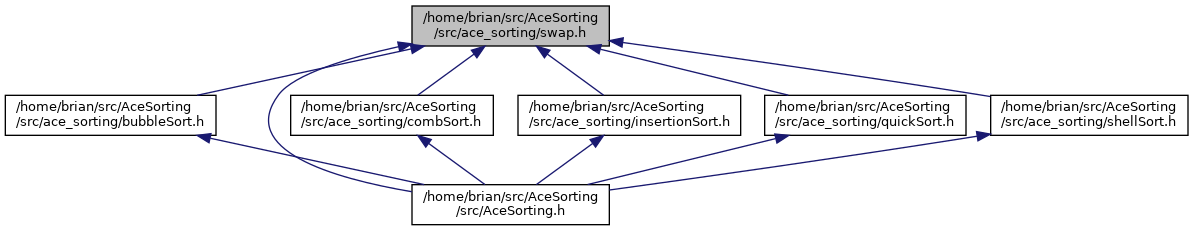
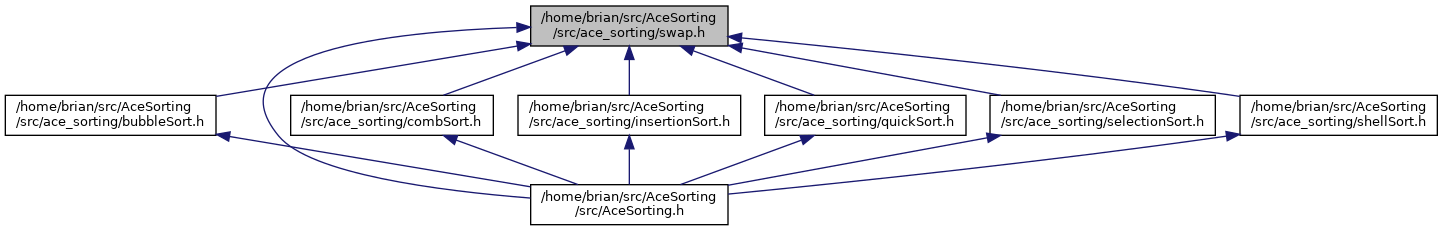
docs: Regenerate doxygen for v0.2

diff --git a/docs/html/selectionSort_8h_source.html b/docs/html/selectionSort_8h_source.html
@@ -5,7 +5,7 @@
 <meta http-equiv="X-UA-Compatible" content="IE=9"/>
 <meta name="generator" content="Doxygen 1.8.17"/>
 <meta name="viewport" content="width=device-width, initial-scale=1"/>
-<title>AceSorting: /home/brian/src/AceSorting/src/ace_sorting/swap.h Source File</title>
+<title>AceSorting: /home/brian/src/AceSorting/src/ace_sorting/selectionSort.h Source File</title>
 <link href="tabs.css" rel="stylesheet" type="text/css"/>
 <script type="text/javascript" src="jquery.js"></script>
 <script type="text/javascript" src="dynsections.js"></script>
@@ -68,10 +68,10 @@ $(function() {
 </div><!-- top -->
 <div class="header">
   <div class="headertitle">
-<div class="title">swap.h</div>  </div>
+<div class="title">selectionSort.h</div>  </div>
 </div><!--header-->
 <div class="contents">
-<a href="swap_8h.html">Go to the documentation of this file.</a><div class="fragment"><div class="line"><a name="l00001"></a><span class="lineno">    1</span>&#160;<span class="comment">/*</span></div>
+<a href="selectionSort_8h.html">Go to the documentation of this file.</a><div class="fragment"><div class="line"><a name="l00001"></a><span class="lineno">    1</span>&#160;<span class="comment">/*</span></div>
 <div class="line"><a name="l00002"></a><span class="lineno">    2</span>&#160;<span class="comment">MIT License</span></div>
 <div class="line"><a name="l00003"></a><span class="lineno">    3</span>&#160;<span class="comment"></span> </div>
 <div class="line"><a name="l00004"></a><span class="lineno">    4</span>&#160;<span class="comment">Copyright (c) 2021 Brian T. Park</span></div>
@@ -95,22 +95,51 @@ $(function() {
 <div class="line"><a name="l00022"></a><span class="lineno">   22</span>&#160;<span class="comment">SOFTWARE.</span></div>
 <div class="line"><a name="l00023"></a><span class="lineno">   23</span>&#160;<span class="comment">*/</span></div>
 <div class="line"><a name="l00024"></a><span class="lineno">   24</span>&#160; </div>
-<div class="line"><a name="l00031"></a><span class="lineno">   31</span>&#160;<span class="preprocessor">#ifndef ACE_SORTING_SWAP_H</span></div>
-<div class="line"><a name="l00032"></a><span class="lineno">   32</span>&#160;<span class="preprocessor">#define ACE_SORTING_SWAP_H</span></div>
+<div class="line"><a name="l00031"></a><span class="lineno">   31</span>&#160;<span class="preprocessor">#ifndef ACE_SORTING_SELECTION_SORT_H</span></div>
+<div class="line"><a name="l00032"></a><span class="lineno">   32</span>&#160;<span class="preprocessor">#define ACE_SORTING_SELECTION_SORT_H</span></div>
 <div class="line"><a name="l00033"></a><span class="lineno">   33</span>&#160; </div>
-<div class="line"><a name="l00034"></a><span class="lineno">   34</span>&#160;<span class="keyword">namespace </span>ace_sorting {</div>
+<div class="line"><a name="l00034"></a><span class="lineno">   34</span>&#160;<span class="preprocessor">#include &quot;<a class="code" href="swap_8h.html">swap.h</a>&quot;</span></div>
 <div class="line"><a name="l00035"></a><span class="lineno">   35</span>&#160; </div>
-<div class="line"><a name="l00040"></a><span class="lineno">   40</span>&#160;  <span class="keyword">template</span> &lt;<span class="keyword">typename</span> T&gt;</div>
-<div class="line"><a name="l00041"></a><span class="lineno"><a class="line" href="swap_8h.html#a14e0c07fb427a4bc51b26fa03ae19eb0">   41</a></span>&#160;  <span class="keywordtype">void</span> <a class="code" href="swap_8h.html#a14e0c07fb427a4bc51b26fa03ae19eb0">swap</a>(T&amp; a, T&amp; b) {</div>
-<div class="line"><a name="l00042"></a><span class="lineno">   42</span>&#160;    T temp = a;</div>
-<div class="line"><a name="l00043"></a><span class="lineno">   43</span>&#160;    a = b;</div>
-<div class="line"><a name="l00044"></a><span class="lineno">   44</span>&#160;    b = temp;</div>
-<div class="line"><a name="l00045"></a><span class="lineno">   45</span>&#160;  }</div>
-<div class="line"><a name="l00046"></a><span class="lineno">   46</span>&#160;}</div>
+<div class="line"><a name="l00036"></a><span class="lineno">   36</span>&#160;<span class="keyword">namespace </span>ace_sorting {</div>
+<div class="line"><a name="l00037"></a><span class="lineno">   37</span>&#160; </div>
+<div class="line"><a name="l00044"></a><span class="lineno">   44</span>&#160;<span class="keyword">template</span> &lt;<span class="keyword">typename</span> T&gt;</div>
+<div class="line"><a name="l00045"></a><span class="lineno"><a class="line" href="selectionSort_8h.html#a68fc184ad9a55e35542cb1c78065bbd7">   45</a></span>&#160;<span class="keywordtype">void</span> <a class="code" href="selectionSort_8h.html#a68fc184ad9a55e35542cb1c78065bbd7">selectionSort</a>(T data[], uint16_t n) {</div>
+<div class="line"><a name="l00046"></a><span class="lineno">   46</span>&#160;  <span class="keywordflow">for</span> (uint16_t i = 0; i &lt; n; i++) {</div>
 <div class="line"><a name="l00047"></a><span class="lineno">   47</span>&#160; </div>
-<div class="line"><a name="l00048"></a><span class="lineno">   48</span>&#160;<span class="preprocessor">#endif</span></div>
+<div class="line"><a name="l00048"></a><span class="lineno">   48</span>&#160;    <span class="comment">// Loop to find the smallest element.</span></div>
+<div class="line"><a name="l00049"></a><span class="lineno">   49</span>&#160;    uint16_t iSmallest = i;</div>
+<div class="line"><a name="l00050"></a><span class="lineno">   50</span>&#160;    T smallest = data[i];</div>
+<div class="line"><a name="l00051"></a><span class="lineno">   51</span>&#160; </div>
+<div class="line"><a name="l00052"></a><span class="lineno">   52</span>&#160;    <span class="comment">// Starting the loop with &#39;j = i + 1&#39; increases flash usage on AVR by 12</span></div>
+<div class="line"><a name="l00053"></a><span class="lineno">   53</span>&#160;    <span class="comment">// bytes. But it does not reduce the execution time signficantly, because</span></div>
+<div class="line"><a name="l00054"></a><span class="lineno">   54</span>&#160;    <span class="comment">// the (i + 1) will be done anyway by the j++ in the loop. So the only thing</span></div>
+<div class="line"><a name="l00055"></a><span class="lineno">   55</span>&#160;    <span class="comment">// we save is a single redundant &#39;smallest &lt; smallest&#39; comparison.</span></div>
+<div class="line"><a name="l00056"></a><span class="lineno">   56</span>&#160;    <span class="keywordflow">for</span> (uint16_t j = i; j &lt; n; j++) {</div>
+<div class="line"><a name="l00057"></a><span class="lineno">   57</span>&#160;      <span class="keywordflow">if</span> (data[j] &lt; smallest) {</div>
+<div class="line"><a name="l00058"></a><span class="lineno">   58</span>&#160;        iSmallest = j;</div>
+<div class="line"><a name="l00059"></a><span class="lineno">   59</span>&#160;        smallest = data[j];</div>
+<div class="line"><a name="l00060"></a><span class="lineno">   60</span>&#160;      }</div>
+<div class="line"><a name="l00061"></a><span class="lineno">   61</span>&#160;    }</div>
+<div class="line"><a name="l00062"></a><span class="lineno">   62</span>&#160; </div>
+<div class="line"><a name="l00063"></a><span class="lineno">   63</span>&#160;    <span class="comment">// This extra check (i != iSmallest) is not really necessary, because if the</span></div>
+<div class="line"><a name="l00064"></a><span class="lineno">   64</span>&#160;    <span class="comment">// first element was already the smallest, it would swap the value back into</span></div>
+<div class="line"><a name="l00065"></a><span class="lineno">   65</span>&#160;    <span class="comment">// itself. However, the one situation where Selection Sort *might* be used</span></div>
+<div class="line"><a name="l00066"></a><span class="lineno">   66</span>&#160;    <span class="comment">// over Insertion Sort is when the write operation is far more expensive</span></div>
+<div class="line"><a name="l00067"></a><span class="lineno">   67</span>&#160;    <span class="comment">// than a read operation. So this test preserves that advantage of the</span></div>
+<div class="line"><a name="l00068"></a><span class="lineno">   68</span>&#160;    <span class="comment">// Selection Sort, by avoiding doing an unnecessary swap.</span></div>
+<div class="line"><a name="l00069"></a><span class="lineno">   69</span>&#160;    <span class="keywordflow">if</span> (i != iSmallest) {</div>
+<div class="line"><a name="l00070"></a><span class="lineno">   70</span>&#160;      <a class="code" href="swap_8h.html#a14e0c07fb427a4bc51b26fa03ae19eb0">swap</a>(data[i], data[iSmallest]);</div>
+<div class="line"><a name="l00071"></a><span class="lineno">   71</span>&#160;    }</div>
+<div class="line"><a name="l00072"></a><span class="lineno">   72</span>&#160;  }</div>
+<div class="line"><a name="l00073"></a><span class="lineno">   73</span>&#160;}</div>
+<div class="line"><a name="l00074"></a><span class="lineno">   74</span>&#160; </div>
+<div class="line"><a name="l00075"></a><span class="lineno">   75</span>&#160;}</div>
+<div class="line"><a name="l00076"></a><span class="lineno">   76</span>&#160; </div>
+<div class="line"><a name="l00077"></a><span class="lineno">   77</span>&#160;<span class="preprocessor">#endif</span></div>
 </div><!-- fragment --></div><!-- contents -->
+<div class="ttc" id="aswap_8h_html"><div class="ttname"><a href="swap_8h.html">swap.h</a></div></div>
 <div class="ttc" id="aswap_8h_html_a14e0c07fb427a4bc51b26fa03ae19eb0"><div class="ttname"><a href="swap_8h.html#a14e0c07fb427a4bc51b26fa03ae19eb0">ace_sorting::swap</a></div><div class="ttdeci">void swap(T &amp;a, T &amp;b)</div><div class="ttdoc">Swap the parameters.</div><div class="ttdef"><b>Definition:</b> <a href="swap_8h_source.html#l00041">swap.h:41</a></div></div>
+<div class="ttc" id="aselectionSort_8h_html_a68fc184ad9a55e35542cb1c78065bbd7"><div class="ttname"><a href="selectionSort_8h.html#a68fc184ad9a55e35542cb1c78065bbd7">ace_sorting::selectionSort</a></div><div class="ttdeci">void selectionSort(T data[], uint16_t n)</div><div class="ttdoc">Selection sort.</div><div class="ttdef"><b>Definition:</b> <a href="selectionSort_8h_source.html#l00045">selectionSort.h:45</a></div></div>
 <!-- start footer part -->
 <hr class="footer"/><address class="footer"><small>
 Generated by &#160;<a href="http://www.doxygen.org/index.html">

diff --git a/docs/html/selectionSort_8h.html b/docs/html/selectionSort_8h.html
@@ -5,7 +5,7 @@
 <meta http-equiv="X-UA-Compatible" content="IE=9"/>
 <meta name="generator" content="Doxygen 1.8.17"/>
 <meta name="viewport" content="width=device-width, initial-scale=1"/>
-<title>AceSorting: /home/brian/src/AceSorting/src/ace_sorting/insertionSort.h File Reference</title>
+<title>AceSorting: /home/brian/src/AceSorting/src/ace_sorting/selectionSort.h File Reference</title>
 <link href="tabs.css" rel="stylesheet" type="text/css"/>
 <script type="text/javascript" src="jquery.js"></script>
 <script type="text/javascript" src="dynsections.js"></script>
@@ -70,45 +70,45 @@ $(function() {
   <div class="summary">
 <a href="#func-members">Functions</a>  </div>
   <div class="headertitle">
-<div class="title">insertionSort.h File Reference</div>  </div>
+<div class="title">selectionSort.h File Reference</div>  </div>
 </div><!--header-->
 <div class="contents">
 <div class="textblock"><code>#include &quot;<a class="el" href="swap_8h_source.html">swap.h</a>&quot;</code><br />
 </div><div class="textblock"><div class="dynheader">
-Include dependency graph for insertionSort.h:</div>
+Include dependency graph for selectionSort.h:</div>
 <div class="dyncontent">
-<div class="center"><img src="insertionSort_8h__incl.png" border="0" usemap="#_2home_2brian_2src_2AceSorting_2src_2ace__sorting_2insertionSort_8h" alt=""/></div>
-<map name="_2home_2brian_2src_2AceSorting_2src_2ace__sorting_2insertionSort_8h" id="_2home_2brian_2src_2AceSorting_2src_2ace__sorting_2insertionSort_8h">
-<area shape="rect" title=" " alt="" coords="5,5,228,47"/>
-<area shape="rect" href="swap_8h.html" title=" " alt="" coords="83,95,151,121"/>
+<div class="center"><img src="selectionSort_8h__incl.png" border="0" usemap="#_2home_2brian_2src_2AceSorting_2src_2ace__sorting_2selectionSort_8h" alt=""/></div>
+<map name="_2home_2brian_2src_2AceSorting_2src_2ace__sorting_2selectionSort_8h" id="_2home_2brian_2src_2AceSorting_2src_2ace__sorting_2selectionSort_8h">
+<area shape="rect" title=" " alt="" coords="5,5,231,47"/>
+<area shape="rect" href="swap_8h.html" title=" " alt="" coords="84,95,152,121"/>
 </map>
 </div>
 </div><div class="textblock"><div class="dynheader">
 This graph shows which files directly or indirectly include this file:</div>
 <div class="dyncontent">
-<div class="center"><img src="insertionSort_8h__dep__incl.png" border="0" usemap="#_2home_2brian_2src_2AceSorting_2src_2ace__sorting_2insertionSort_8hdep" alt=""/></div>
-<map name="_2home_2brian_2src_2AceSorting_2src_2ace__sorting_2insertionSort_8hdep" id="_2home_2brian_2src_2AceSorting_2src_2ace__sorting_2insertionSort_8hdep">
-<area shape="rect" title=" " alt="" coords="5,5,228,47"/>
-<area shape="rect" href="AceSorting_8h_source.html" title=" " alt="" coords="18,95,215,136"/>
+<div class="center"><img src="selectionSort_8h__dep__incl.png" border="0" usemap="#_2home_2brian_2src_2AceSorting_2src_2ace__sorting_2selectionSort_8hdep" alt=""/></div>
+<map name="_2home_2brian_2src_2AceSorting_2src_2ace__sorting_2selectionSort_8hdep" id="_2home_2brian_2src_2AceSorting_2src_2ace__sorting_2selectionSort_8hdep">
+<area shape="rect" title=" " alt="" coords="5,5,231,47"/>
+<area shape="rect" href="AceSorting_8h_source.html" title=" " alt="" coords="19,95,217,136"/>
 </map>
 </div>
 </div>
-<p><a href="insertionSort_8h_source.html">Go to the source code of this file.</a></p>
+<p><a href="selectionSort_8h_source.html">Go to the source code of this file.</a></p>
 <table class="memberdecls">
 <tr class="heading"><td colspan="2"><h2 class="groupheader"><a name="func-members"></a>
 Functions</h2></td></tr>
-<tr class="memitem:aac763b62e542f9b96b393fc633af0a3b"><td class="memTemplParams" colspan="2">template&lt;typename T &gt; </td></tr>
-<tr class="memitem:aac763b62e542f9b96b393fc633af0a3b"><td class="memTemplItemLeft" align="right" valign="top">void&#160;</td><td class="memTemplItemRight" valign="bottom"><a class="el" href="insertionSort_8h.html#aac763b62e542f9b96b393fc633af0a3b">ace_sorting::insertionSort</a> (T data[], uint16_t n)</td></tr>
-<tr class="memdesc:aac763b62e542f9b96b393fc633af0a3b"><td class="mdescLeft">&#160;</td><td class="mdescRight">Insertion sort.  <a href="insertionSort_8h.html#aac763b62e542f9b96b393fc633af0a3b">More...</a><br /></td></tr>
-<tr class="separator:aac763b62e542f9b96b393fc633af0a3b"><td class="memSeparator" colspan="2">&#160;</td></tr>
+<tr class="memitem:a68fc184ad9a55e35542cb1c78065bbd7"><td class="memTemplParams" colspan="2">template&lt;typename T &gt; </td></tr>
+<tr class="memitem:a68fc184ad9a55e35542cb1c78065bbd7"><td class="memTemplItemLeft" align="right" valign="top">void&#160;</td><td class="memTemplItemRight" valign="bottom"><a class="el" href="selectionSort_8h.html#a68fc184ad9a55e35542cb1c78065bbd7">ace_sorting::selectionSort</a> (T data[], uint16_t n)</td></tr>
+<tr class="memdesc:a68fc184ad9a55e35542cb1c78065bbd7"><td class="mdescLeft">&#160;</td><td class="mdescRight">Selection sort.  <a href="selectionSort_8h.html#a68fc184ad9a55e35542cb1c78065bbd7">More...</a><br /></td></tr>
+<tr class="separator:a68fc184ad9a55e35542cb1c78065bbd7"><td class="memSeparator" colspan="2">&#160;</td></tr>
 </table>
 <a name="details" id="details"></a><h2 class="groupheader">Detailed Description</h2>
-<div class="textblock"><p>Insertion sort. </p>
+<div class="textblock"><p>Selection sort. </p>
 
-<p class="definition">Definition in file <a class="el" href="insertionSort_8h_source.html">insertionSort.h</a>.</p>
+<p class="definition">Definition in file <a class="el" href="selectionSort_8h_source.html">selectionSort.h</a>.</p>
 </div><h2 class="groupheader">Function Documentation</h2>
-<a id="aac763b62e542f9b96b393fc633af0a3b"></a>
-<h2 class="memtitle"><span class="permalink"><a href="#aac763b62e542f9b96b393fc633af0a3b">&#9670;&nbsp;</a></span>insertionSort()</h2>
+<a id="a68fc184ad9a55e35542cb1c78065bbd7"></a>
+<h2 class="memtitle"><span class="permalink"><a href="#a68fc184ad9a55e35542cb1c78065bbd7">&#9670;&nbsp;</a></span>selectionSort()</h2>
 
 <div class="memitem">
 <div class="memproto">
@@ -116,7 +116,7 @@ Functions</h2></td></tr>
 template&lt;typename T &gt; </div>
       <table class="memname">
         <tr>
-          <td class="memname">void ace_sorting::insertionSort </td>
+          <td class="memname">void ace_sorting::selectionSort </td>
           <td>(</td>
           <td class="paramtype">T&#160;</td>
           <td class="paramname"><em>data</em>[], </td>
@@ -135,7 +135,7 @@ template&lt;typename T &gt; </div>
       </table>
 </div><div class="memdoc">
 
-<p>Insertion sort. </p>
+<p>Selection sort. </p>
 <p>Average complexity: O(n^2)</p>
 <dl class="tparams"><dt>Template Parameters</dt><dd>
   <table class="tparams">
@@ -144,7 +144,7 @@ template&lt;typename T &gt; </div>
   </dd>
 </dl>
 
-<p class="definition">Definition at line <a class="el" href="insertionSort_8h_source.html#l00045">45</a> of file <a class="el" href="insertionSort_8h_source.html">insertionSort.h</a>.</p>
+<p class="definition">Definition at line <a class="el" href="selectionSort_8h_source.html#l00045">45</a> of file <a class="el" href="selectionSort_8h_source.html">selectionSort.h</a>.</p>
 
 </div>
 </div>

diff --git a/docs/html/AceSorting_8h_source.html b/docs/html/AceSorting_8h_source.html
@@ -22,7 +22,7 @@
  <tr style="height: 56px;">
   <td id="projectalign" style="padding-left: 0.5em;">
    <div id="projectname">AceSorting
-   &#160;<span id="projectnumber">0.1.0</span>
+   &#160;<span id="projectnumber">0.2</span>
    </div>
    <div id="projectbrief">Sorting algorithms for Arduino (Bubble Sort, Insertion Sort, Shell Sort, Comb Sort, Quick Sort)</div>
   </td>
@@ -105,18 +105,20 @@ $(function() {
 <div class="line"><a name="l00043"></a><span class="lineno">   43</span>&#160;<span class="preprocessor">#endif</span></div>
 <div class="line"><a name="l00044"></a><span class="lineno">   44</span>&#160; </div>
 <div class="line"><a name="l00045"></a><span class="lineno">   45</span>&#160;<span class="comment">// Version format: xxyyzz == &quot;xx.yy.zz&quot;</span></div>
-<div class="line"><a name="l00046"></a><span class="lineno">   46</span>&#160;<span class="preprocessor">#define ACE_SORTING_VERSION 100</span></div>
-<div class="line"><a name="l00047"></a><span class="lineno">   47</span>&#160;<span class="preprocessor">#define ACE_SORTING_VERSION_STRING &quot;0.1.0&quot;</span></div>
+<div class="line"><a name="l00046"></a><span class="lineno">   46</span>&#160;<span class="preprocessor">#define ACE_SORTING_VERSION 200</span></div>
+<div class="line"><a name="l00047"></a><span class="lineno">   47</span>&#160;<span class="preprocessor">#define ACE_SORTING_VERSION_STRING &quot;0.2.0&quot;</span></div>
 <div class="line"><a name="l00048"></a><span class="lineno">   48</span>&#160; </div>
 <div class="line"><a name="l00049"></a><span class="lineno">   49</span>&#160;<span class="preprocessor">#include &quot;<a class="code" href="swap_8h.html">ace_sorting/swap.h</a>&quot;</span></div>
 <div class="line"><a name="l00050"></a><span class="lineno">   50</span>&#160;<span class="preprocessor">#include &quot;<a class="code" href="bubbleSort_8h.html">ace_sorting/bubbleSort.h</a>&quot;</span></div>
 <div class="line"><a name="l00051"></a><span class="lineno">   51</span>&#160;<span class="preprocessor">#include &quot;<a class="code" href="insertionSort_8h.html">ace_sorting/insertionSort.h</a>&quot;</span></div>
-<div class="line"><a name="l00052"></a><span class="lineno">   52</span>&#160;<span class="preprocessor">#include &quot;<a class="code" href="shellSort_8h.html">ace_sorting/shellSort.h</a>&quot;</span></div>
-<div class="line"><a name="l00053"></a><span class="lineno">   53</span>&#160;<span class="preprocessor">#include &quot;<a class="code" href="combSort_8h.html">ace_sorting/combSort.h</a>&quot;</span></div>
-<div class="line"><a name="l00054"></a><span class="lineno">   54</span>&#160;<span class="preprocessor">#include &quot;<a class="code" href="quickSort_8h.html">ace_sorting/quickSort.h</a>&quot;</span></div>
-<div class="line"><a name="l00055"></a><span class="lineno">   55</span>&#160; </div>
-<div class="line"><a name="l00056"></a><span class="lineno">   56</span>&#160;<span class="preprocessor">#endif</span></div>
+<div class="line"><a name="l00052"></a><span class="lineno">   52</span>&#160;<span class="preprocessor">#include &quot;<a class="code" href="selectionSort_8h.html">ace_sorting/selectionSort.h</a>&quot;</span></div>
+<div class="line"><a name="l00053"></a><span class="lineno">   53</span>&#160;<span class="preprocessor">#include &quot;<a class="code" href="shellSort_8h.html">ace_sorting/shellSort.h</a>&quot;</span></div>
+<div class="line"><a name="l00054"></a><span class="lineno">   54</span>&#160;<span class="preprocessor">#include &quot;<a class="code" href="combSort_8h.html">ace_sorting/combSort.h</a>&quot;</span></div>
+<div class="line"><a name="l00055"></a><span class="lineno">   55</span>&#160;<span class="preprocessor">#include &quot;<a class="code" href="quickSort_8h.html">ace_sorting/quickSort.h</a>&quot;</span></div>
+<div class="line"><a name="l00056"></a><span class="lineno">   56</span>&#160; </div>
+<div class="line"><a name="l00057"></a><span class="lineno">   57</span>&#160;<span class="preprocessor">#endif</span></div>
 </div><!-- fragment --></div><!-- contents -->
+<div class="ttc" id="aselectionSort_8h_html"><div class="ttname"><a href="selectionSort_8h.html">selectionSort.h</a></div></div>
 <div class="ttc" id="aswap_8h_html"><div class="ttname"><a href="swap_8h.html">swap.h</a></div></div>
 <div class="ttc" id="acombSort_8h_html"><div class="ttname"><a href="combSort_8h.html">combSort.h</a></div></div>
 <div class="ttc" id="ainsertionSort_8h_html"><div class="ttname"><a href="insertionSort_8h.html">insertionSort.h</a></div></div>

diff --git a/docs/html/files.html b/docs/html/files.html
@@ -22,7 +22,7 @@
  <tr style="height: 56px;">
   <td id="projectalign" style="padding-left: 0.5em;">
    <div id="projectname">AceSorting
-   &#160;<span id="projectnumber">0.1.0</span>
+   &#160;<span id="projectnumber">0.2</span>
    </div>
    <div id="projectbrief">Sorting algorithms for Arduino (Bubble Sort, Insertion Sort, Shell Sort, Comb Sort, Quick Sort)</div>
   </td>
@@ -75,9 +75,10 @@ $(function() {
 <tr id="row_0_0_1_"><td class="entry"><span style="width:48px;display:inline-block;">&#160;</span><a href="combSort_8h_source.html"><span class="icondoc"></span></a><a class="el" href="combSort_8h.html" target="_self">combSort.h</a></td><td class="desc"></td></tr>
 <tr id="row_0_0_2_" class="even"><td class="entry"><span style="width:48px;display:inline-block;">&#160;</span><a href="insertionSort_8h_source.html"><span class="icondoc"></span></a><a class="el" href="insertionSort_8h.html" target="_self">insertionSort.h</a></td><td class="desc"></td></tr>
 <tr id="row_0_0_3_"><td class="entry"><span style="width:48px;display:inline-block;">&#160;</span><a href="quickSort_8h_source.html"><span class="icondoc"></span></a><a class="el" href="quickSort_8h.html" target="_self">quickSort.h</a></td><td class="desc"></td></tr>
-<tr id="row_0_0_4_" class="even"><td class="entry"><span style="width:48px;display:inline-block;">&#160;</span><a href="shellSort_8h_source.html"><span class="icondoc"></span></a><a class="el" href="shellSort_8h.html" target="_self">shellSort.h</a></td><td class="desc"></td></tr>
-<tr id="row_0_0_5_"><td class="entry"><span style="width:48px;display:inline-block;">&#160;</span><a href="swap_8h_source.html"><span class="icondoc"></span></a><a class="el" href="swap_8h.html" target="_self">swap.h</a></td><td class="desc"></td></tr>
-<tr id="row_0_1_" class="even"><td class="entry"><span style="width:32px;display:inline-block;">&#160;</span><a href="AceSorting_8h_source.html"><span class="icondoc"></span></a><b>AceSorting.h</b></td><td class="desc"></td></tr>
+<tr id="row_0_0_4_" class="even"><td class="entry"><span style="width:48px;display:inline-block;">&#160;</span><a href="selectionSort_8h_source.html"><span class="icondoc"></span></a><a class="el" href="selectionSort_8h.html" target="_self">selectionSort.h</a></td><td class="desc"></td></tr>
+<tr id="row_0_0_5_"><td class="entry"><span style="width:48px;display:inline-block;">&#160;</span><a href="shellSort_8h_source.html"><span class="icondoc"></span></a><a class="el" href="shellSort_8h.html" target="_self">shellSort.h</a></td><td class="desc"></td></tr>
+<tr id="row_0_0_6_" class="even"><td class="entry"><span style="width:48px;display:inline-block;">&#160;</span><a href="swap_8h_source.html"><span class="icondoc"></span></a><a class="el" href="swap_8h.html" target="_self">swap.h</a></td><td class="desc"></td></tr>
+<tr id="row_0_1_"><td class="entry"><span style="width:32px;display:inline-block;">&#160;</span><a href="AceSorting_8h_source.html"><span class="icondoc"></span></a><b>AceSorting.h</b></td><td class="desc"></td></tr>
 </table>
 </div><!-- directory -->
 </div><!-- contents -->

diff --git a/docs/html/dir_000000_000001.html b/docs/html/dir_000000_000001.html
@@ -22,7 +22,7 @@
  <tr style="height: 56px;">
   <td id="projectalign" style="padding-left: 0.5em;">
    <div id="projectname">AceSorting
-   &#160;<span id="projectnumber">0.1.0</span>
+   &#160;<span id="projectnumber">0.2</span>
    </div>
    <div id="projectbrief">Sorting algorithms for Arduino (Bubble Sort, Insertion Sort, Shell Sort, Comb Sort, Quick Sort)</div>
   </td>
@@ -67,7 +67,7 @@ $(function() {
 </div>
 </div><!-- top -->
 <div class="contents">
-<h3>src &rarr; ace_sorting Relation</h3><table class="dirtab"><tr class="dirtab"><th class="dirtab">File in src</th><th class="dirtab">Includes file in src/ace_sorting</th></tr><tr class="dirtab"><td class="dirtab"><b>AceSorting.h</b></td><td class="dirtab"><a class="el" href="bubbleSort_8h.html">bubbleSort.h</a></td></tr><tr class="dirtab"><td class="dirtab"><b>AceSorting.h</b></td><td class="dirtab"><a class="el" href="combSort_8h.html">combSort.h</a></td></tr><tr class="dirtab"><td class="dirtab"><b>AceSorting.h</b></td><td class="dirtab"><a class="el" href="insertionSort_8h.html">insertionSort.h</a></td></tr><tr class="dirtab"><td class="dirtab"><b>AceSorting.h</b></td><td class="dirtab"><a class="el" href="quickSort_8h.html">quickSort.h</a></td></tr><tr class="dirtab"><td class="dirtab"><b>AceSorting.h</b></td><td class="dirtab"><a class="el" href="shellSort_8h.html">shellSort.h</a></td></tr><tr class="dirtab"><td class="dirtab"><b>AceSorting.h</b></td><td class="dirtab"><a class="el" href="swap_8h.html">swap.h</a></td></tr></table></div><!-- contents -->
+<h3>src &rarr; ace_sorting Relation</h3><table class="dirtab"><tr class="dirtab"><th class="dirtab">File in src</th><th class="dirtab">Includes file in src/ace_sorting</th></tr><tr class="dirtab"><td class="dirtab"><b>AceSorting.h</b></td><td class="dirtab"><a class="el" href="bubbleSort_8h.html">bubbleSort.h</a></td></tr><tr class="dirtab"><td class="dirtab"><b>AceSorting.h</b></td><td class="dirtab"><a class="el" href="combSort_8h.html">combSort.h</a></td></tr><tr class="dirtab"><td class="dirtab"><b>AceSorting.h</b></td><td class="dirtab"><a class="el" href="insertionSort_8h.html">insertionSort.h</a></td></tr><tr class="dirtab"><td class="dirtab"><b>AceSorting.h</b></td><td class="dirtab"><a class="el" href="quickSort_8h.html">quickSort.h</a></td></tr><tr class="dirtab"><td class="dirtab"><b>AceSorting.h</b></td><td class="dirtab"><a class="el" href="selectionSort_8h.html">selectionSort.h</a></td></tr><tr class="dirtab"><td class="dirtab"><b>AceSorting.h</b></td><td class="dirtab"><a class="el" href="shellSort_8h.html">shellSort.h</a></td></tr><tr class="dirtab"><td class="dirtab"><b>AceSorting.h</b></td><td class="dirtab"><a class="el" href="swap_8h.html">swap.h</a></td></tr></table></div><!-- contents -->
 <!-- start footer part -->
 <hr class="footer"/><address class="footer"><small>
 Generated by &#160;<a href="http://www.doxygen.org/index.html">

diff --git a/docs/html/dir_54c88fbaa58defb9f1b2842cb9ef0a89.html b/docs/html/dir_54c88fbaa58defb9f1b2842cb9ef0a89.html
@@ -22,7 +22,7 @@
  <tr style="height: 56px;">
   <td id="projectalign" style="padding-left: 0.5em;">
    <div id="projectname">AceSorting
-   &#160;<span id="projectnumber">0.1.0</span>
+   &#160;<span id="projectnumber">0.2</span>
    </div>
    <div id="projectbrief">Sorting algorithms for Arduino (Bubble Sort, Insertion Sort, Shell Sort, Comb Sort, Quick Sort)</div>
   </td>
@@ -81,6 +81,8 @@ Files</h2></td></tr>
 <tr class="memitem:insertionSort_8h"><td class="memItemLeft" align="right" valign="top">file &#160;</td><td class="memItemRight" valign="bottom"><a class="el" href="insertionSort_8h.html">insertionSort.h</a> <a href="insertionSort_8h_source.html">[code]</a></td></tr>
 <tr class="separator:"><td class="memSeparator" colspan="2">&#160;</td></tr>
 <tr class="memitem:quickSort_8h"><td class="memItemLeft" align="right" valign="top">file &#160;</td><td class="memItemRight" valign="bottom"><a class="el" href="quickSort_8h.html">quickSort.h</a> <a href="quickSort_8h_source.html">[code]</a></td></tr>
+<tr class="separator:"><td class="memSeparator" colspan="2">&#160;</td></tr>
+<tr class="memitem:selectionSort_8h"><td class="memItemLeft" align="right" valign="top">file &#160;</td><td class="memItemRight" valign="bottom"><a class="el" href="selectionSort_8h.html">selectionSort.h</a> <a href="selectionSort_8h_source.html">[code]</a></td></tr>
 <tr class="separator:"><td class="memSeparator" colspan="2">&#160;</td></tr>
 <tr class="memitem:shellSort_8h"><td class="memItemLeft" align="right" valign="top">file &#160;</td><td class="memItemRight" valign="bottom"><a class="el" href="shellSort_8h.html">shellSort.h</a> <a href="shellSort_8h_source.html">[code]</a></td></tr>
 <tr class="separator:"><td class="memSeparator" colspan="2">&#160;</td></tr>

diff --git a/docs/html/swap_8h.html b/docs/html/swap_8h.html
@@ -22,7 +22,7 @@
  <tr style="height: 56px;">
   <td id="projectalign" style="padding-left: 0.5em;">
    <div id="projectname">AceSorting
-   &#160;<span id="projectnumber">0.1.0</span>
+   &#160;<span id="projectnumber">0.2</span>
    </div>
    <div id="projectbrief">Sorting algorithms for Arduino (Bubble Sort, Insertion Sort, Shell Sort, Comb Sort, Quick Sort)</div>
   </td>
@@ -78,13 +78,14 @@ This graph shows which files directly or indirectly include this file:</div>
 <div class="dyncontent">
 <div class="center"><img src="swap_8h__dep__incl.png" border="0" usemap="#_2home_2brian_2src_2AceSorting_2src_2ace__sorting_2swap_8hdep" alt=""/></div>
 <map name="_2home_2brian_2src_2AceSorting_2src_2ace__sorting_2swap_8hdep" id="_2home_2brian_2src_2AceSorting_2src_2ace__sorting_2swap_8hdep">
-<area shape="rect" title=" " alt="" coords="412,5,609,47"/>
+<area shape="rect" title=" " alt="" coords="531,5,728,47"/>
 <area shape="rect" href="bubbleSort_8h.html" title=" " alt="" coords="5,95,216,136"/>
-<area shape="rect" href="AceSorting_8h_source.html" title=" " alt="" coords="412,184,609,225"/>
+<area shape="rect" href="AceSorting_8h_source.html" title=" " alt="" coords="531,184,728,225"/>
 <area shape="rect" href="combSort_8h.html" title=" " alt="" coords="291,95,493,136"/>
 <area shape="rect" href="insertionSort_8h.html" title=" " alt="" coords="518,95,741,136"/>
 <area shape="rect" href="quickSort_8h.html" title=" " alt="" coords="765,95,966,136"/>
-<area shape="rect" href="shellSort_8h.html" title=" " alt="" coords="991,95,1188,136"/>
+<area shape="rect" href="selectionSort_8h.html" title=" " alt="" coords="990,95,1215,136"/>
+<area shape="rect" href="shellSort_8h.html" title=" " alt="" coords="1240,95,1437,136"/>
 </map>
 </div>
 </div>

diff --git a/docs/html/shellSort_8h_source.html b/docs/html/shellSort_8h_source.html
@@ -22,7 +22,7 @@
  <tr style="height: 56px;">
   <td id="projectalign" style="padding-left: 0.5em;">
    <div id="projectname">AceSorting
-   &#160;<span id="projectnumber">0.1.0</span>
+   &#160;<span id="projectnumber">0.2</span>
    </div>
    <div id="projectbrief">Sorting algorithms for Arduino (Bubble Sort, Insertion Sort, Shell Sort, Comb Sort, Quick Sort)</div>
   </td>
@@ -106,7 +106,7 @@ $(function() {
 <div class="line"><a name="l00046"></a><span class="lineno"><a class="line" href="shellSort_8h.html#aa17d405fc10023a2dae35c6800f72992">   46</a></span>&#160;<span class="keywordtype">void</span> <a class="code" href="shellSort_8h.html#aa17d405fc10023a2dae35c6800f72992">shellSortClassic</a>(T data[], uint16_t n) {</div>
 <div class="line"><a name="l00047"></a><span class="lineno">   47</span>&#160;    uint16_t gap = n;</div>
 <div class="line"><a name="l00048"></a><span class="lineno">   48</span>&#160;    <span class="keywordflow">while</span> (gap &gt; 1) {</div>
-<div class="line"><a name="l00049"></a><span class="lineno">   49</span>&#160;        gap = (gap + 1) / 2;</div>
+<div class="line"><a name="l00049"></a><span class="lineno">   49</span>&#160;        gap /= 2;</div>
 <div class="line"><a name="l00050"></a><span class="lineno">   50</span>&#160; </div>
 <div class="line"><a name="l00051"></a><span class="lineno">   51</span>&#160;    <span class="comment">// Do insertion sort of each sub-array separated by gap.</span></div>
 <div class="line"><a name="l00052"></a><span class="lineno">   52</span>&#160;        <span class="keywordflow">for</span> (uint16_t i = gap; i &lt; n; i++) {</div>

diff --git a/docs/html/search/all_5.js b/docs/html/search/all_5.js
@@ -1,9 +1,11 @@
 var searchData=
 [
-  ['shellsort_2eh_14',['shellSort.h',['../shellSort_8h.html',1,'']]],
-  ['shellsortclassic_15',['shellSortClassic',['../shellSort_8h.html#aa17d405fc10023a2dae35c6800f72992',1,'ace_sorting']]],
-  ['shellsortknuth_16',['shellSortKnuth',['../shellSort_8h.html#aa3ffa9009047d108d89f27a97f250731',1,'ace_sorting']]],
-  ['shellsorttokuda_17',['shellSortTokuda',['../shellSort_8h.html#aecfe06e8598182f86aaaa192ae643f7c',1,'ace_sorting']]],
-  ['swap_18',['swap',['../swap_8h.html#a14e0c07fb427a4bc51b26fa03ae19eb0',1,'ace_sorting']]],
-  ['swap_2eh_19',['swap.h',['../swap_8h.html',1,'']]]
+  ['selectionsort_14',['selectionSort',['../selectionSort_8h.html#a68fc184ad9a55e35542cb1c78065bbd7',1,'ace_sorting']]],
+  ['selectionsort_2eh_15',['selectionSort.h',['../selectionSort_8h.html',1,'']]],
+  ['shellsort_2eh_16',['shellSort.h',['../shellSort_8h.html',1,'']]],
+  ['shellsortclassic_17',['shellSortClassic',['../shellSort_8h.html#aa17d405fc10023a2dae35c6800f72992',1,'ace_sorting']]],
+  ['shellsortknuth_18',['shellSortKnuth',['../shellSort_8h.html#aa3ffa9009047d108d89f27a97f250731',1,'ace_sorting']]],
+  ['shellsorttokuda_19',['shellSortTokuda',['../shellSort_8h.html#aecfe06e8598182f86aaaa192ae643f7c',1,'ace_sorting']]],
+  ['swap_20',['swap',['../swap_8h.html#a14e0c07fb427a4bc51b26fa03ae19eb0',1,'ace_sorting']]],
+  ['swap_2eh_21',['swap.h',['../swap_8h.html',1,'']]]
 ];

diff --git a/docs/html/dir_68267d1309a1af8e8297ef4c3efbcdba.html b/docs/html/dir_68267d1309a1af8e8297ef4c3efbcdba.html
@@ -22,7 +22,7 @@
  <tr style="height: 56px;">
   <td id="projectalign" style="padding-left: 0.5em;">
    <div id="projectname">AceSorting
-   &#160;<span id="projectnumber">0.1.0</span>
+   &#160;<span id="projectnumber">0.2</span>
    </div>
    <div id="projectbrief">Sorting algorithms for Arduino (Bubble Sort, Insertion Sort, Shell Sort, Comb Sort, Quick Sort)</div>
   </td>
@@ -77,7 +77,7 @@ Directory dependency graph for src:</div>
 <div class="center"><img src="dir_68267d1309a1af8e8297ef4c3efbcdba_dep.png" border="0" usemap="#dir__68267d1309a1af8e8297ef4c3efbcdba__dep" alt="/home/brian/src/AceSorting/src"/></div>
 <map name="dir__68267d1309a1af8e8297ef4c3efbcdba__dep" id="dir__68267d1309a1af8e8297ef4c3efbcdba__dep">
 <area shape="rect" href="dir_54c88fbaa58defb9f1b2842cb9ef0a89.html" title="ace_sorting" alt="" coords="27,123,125,171"/>
-<area shape="rect" href="dir_000000_000001.html" title="6" alt="" coords="80,97,89,112"/>
+<area shape="rect" href="dir_000000_000001.html" title="7" alt="" coords="80,97,89,112"/>
 <area shape="rect" href="dir_68267d1309a1af8e8297ef4c3efbcdba.html" alt="" coords="16,16,136,181"/>
 </map>
 </div>

diff --git a/docs/html/search/functions_4.js b/docs/html/search/functions_4.js
@@ -1,7 +1,8 @@
 var searchData=
 [
-  ['shellsortclassic_35',['shellSortClassic',['../shellSort_8h.html#aa17d405fc10023a2dae35c6800f72992',1,'ace_sorting']]],
-  ['shellsortknuth_36',['shellSortKnuth',['../shellSort_8h.html#aa3ffa9009047d108d89f27a97f250731',1,'ace_sorting']]],
-  ['shellsorttokuda_37',['shellSortTokuda',['../shellSort_8h.html#aecfe06e8598182f86aaaa192ae643f7c',1,'ace_sorting']]],
-  ['swap_38',['swap',['../swap_8h.html#a14e0c07fb427a4bc51b26fa03ae19eb0',1,'ace_sorting']]]
+  ['selectionsort_38',['selectionSort',['../selectionSort_8h.html#a68fc184ad9a55e35542cb1c78065bbd7',1,'ace_sorting']]],
+  ['shellsortclassic_39',['shellSortClassic',['../shellSort_8h.html#aa17d405fc10023a2dae35c6800f72992',1,'ace_sorting']]],
+  ['shellsortknuth_40',['shellSortKnuth',['../shellSort_8h.html#aa3ffa9009047d108d89f27a97f250731',1,'ace_sorting']]],
+  ['shellsorttokuda_41',['shellSortTokuda',['../shellSort_8h.html#aecfe06e8598182f86aaaa192ae643f7c',1,'ace_sorting']]],
+  ['swap_42',['swap',['../swap_8h.html#a14e0c07fb427a4bc51b26fa03ae19eb0',1,'ace_sorting']]]
 ];

diff --git a/docs/html/search/functions_1.js b/docs/html/search/functions_1.js
@@ -1,7 +1,7 @@
 var searchData=
 [
-  ['combsort13_27',['combSort13',['../combSort_8h.html#aa80bb895dd5f95eb13e09b404e4661c9',1,'ace_sorting']]],
-  ['combsort133_28',['combSort133',['../combSort_8h.html#a7b128ab4c802690dc782da161357aab0',1,'ace_sorting']]],
-  ['combsort133m_29',['combSort133m',['../combSort_8h.html#a0148155acfcb2e3152df431035ab3da8',1,'ace_sorting']]],
-  ['combsort13m_30',['combSort13m',['../combSort_8h.html#ac0e984a1bfc3f295ab4d9220da0fdc7f',1,'ace_sorting']]]
+  ['combsort13_30',['combSort13',['../combSort_8h.html#aa80bb895dd5f95eb13e09b404e4661c9',1,'ace_sorting']]],
+  ['combsort133_31',['combSort133',['../combSort_8h.html#a7b128ab4c802690dc782da161357aab0',1,'ace_sorting']]],
+  ['combsort133m_32',['combSort133m',['../combSort_8h.html#a0148155acfcb2e3152df431035ab3da8',1,'ace_sorting']]],
+  ['combsort13m_33',['combSort13m',['../combSort_8h.html#ac0e984a1bfc3f295ab4d9220da0fdc7f',1,'ace_sorting']]]
 ];
